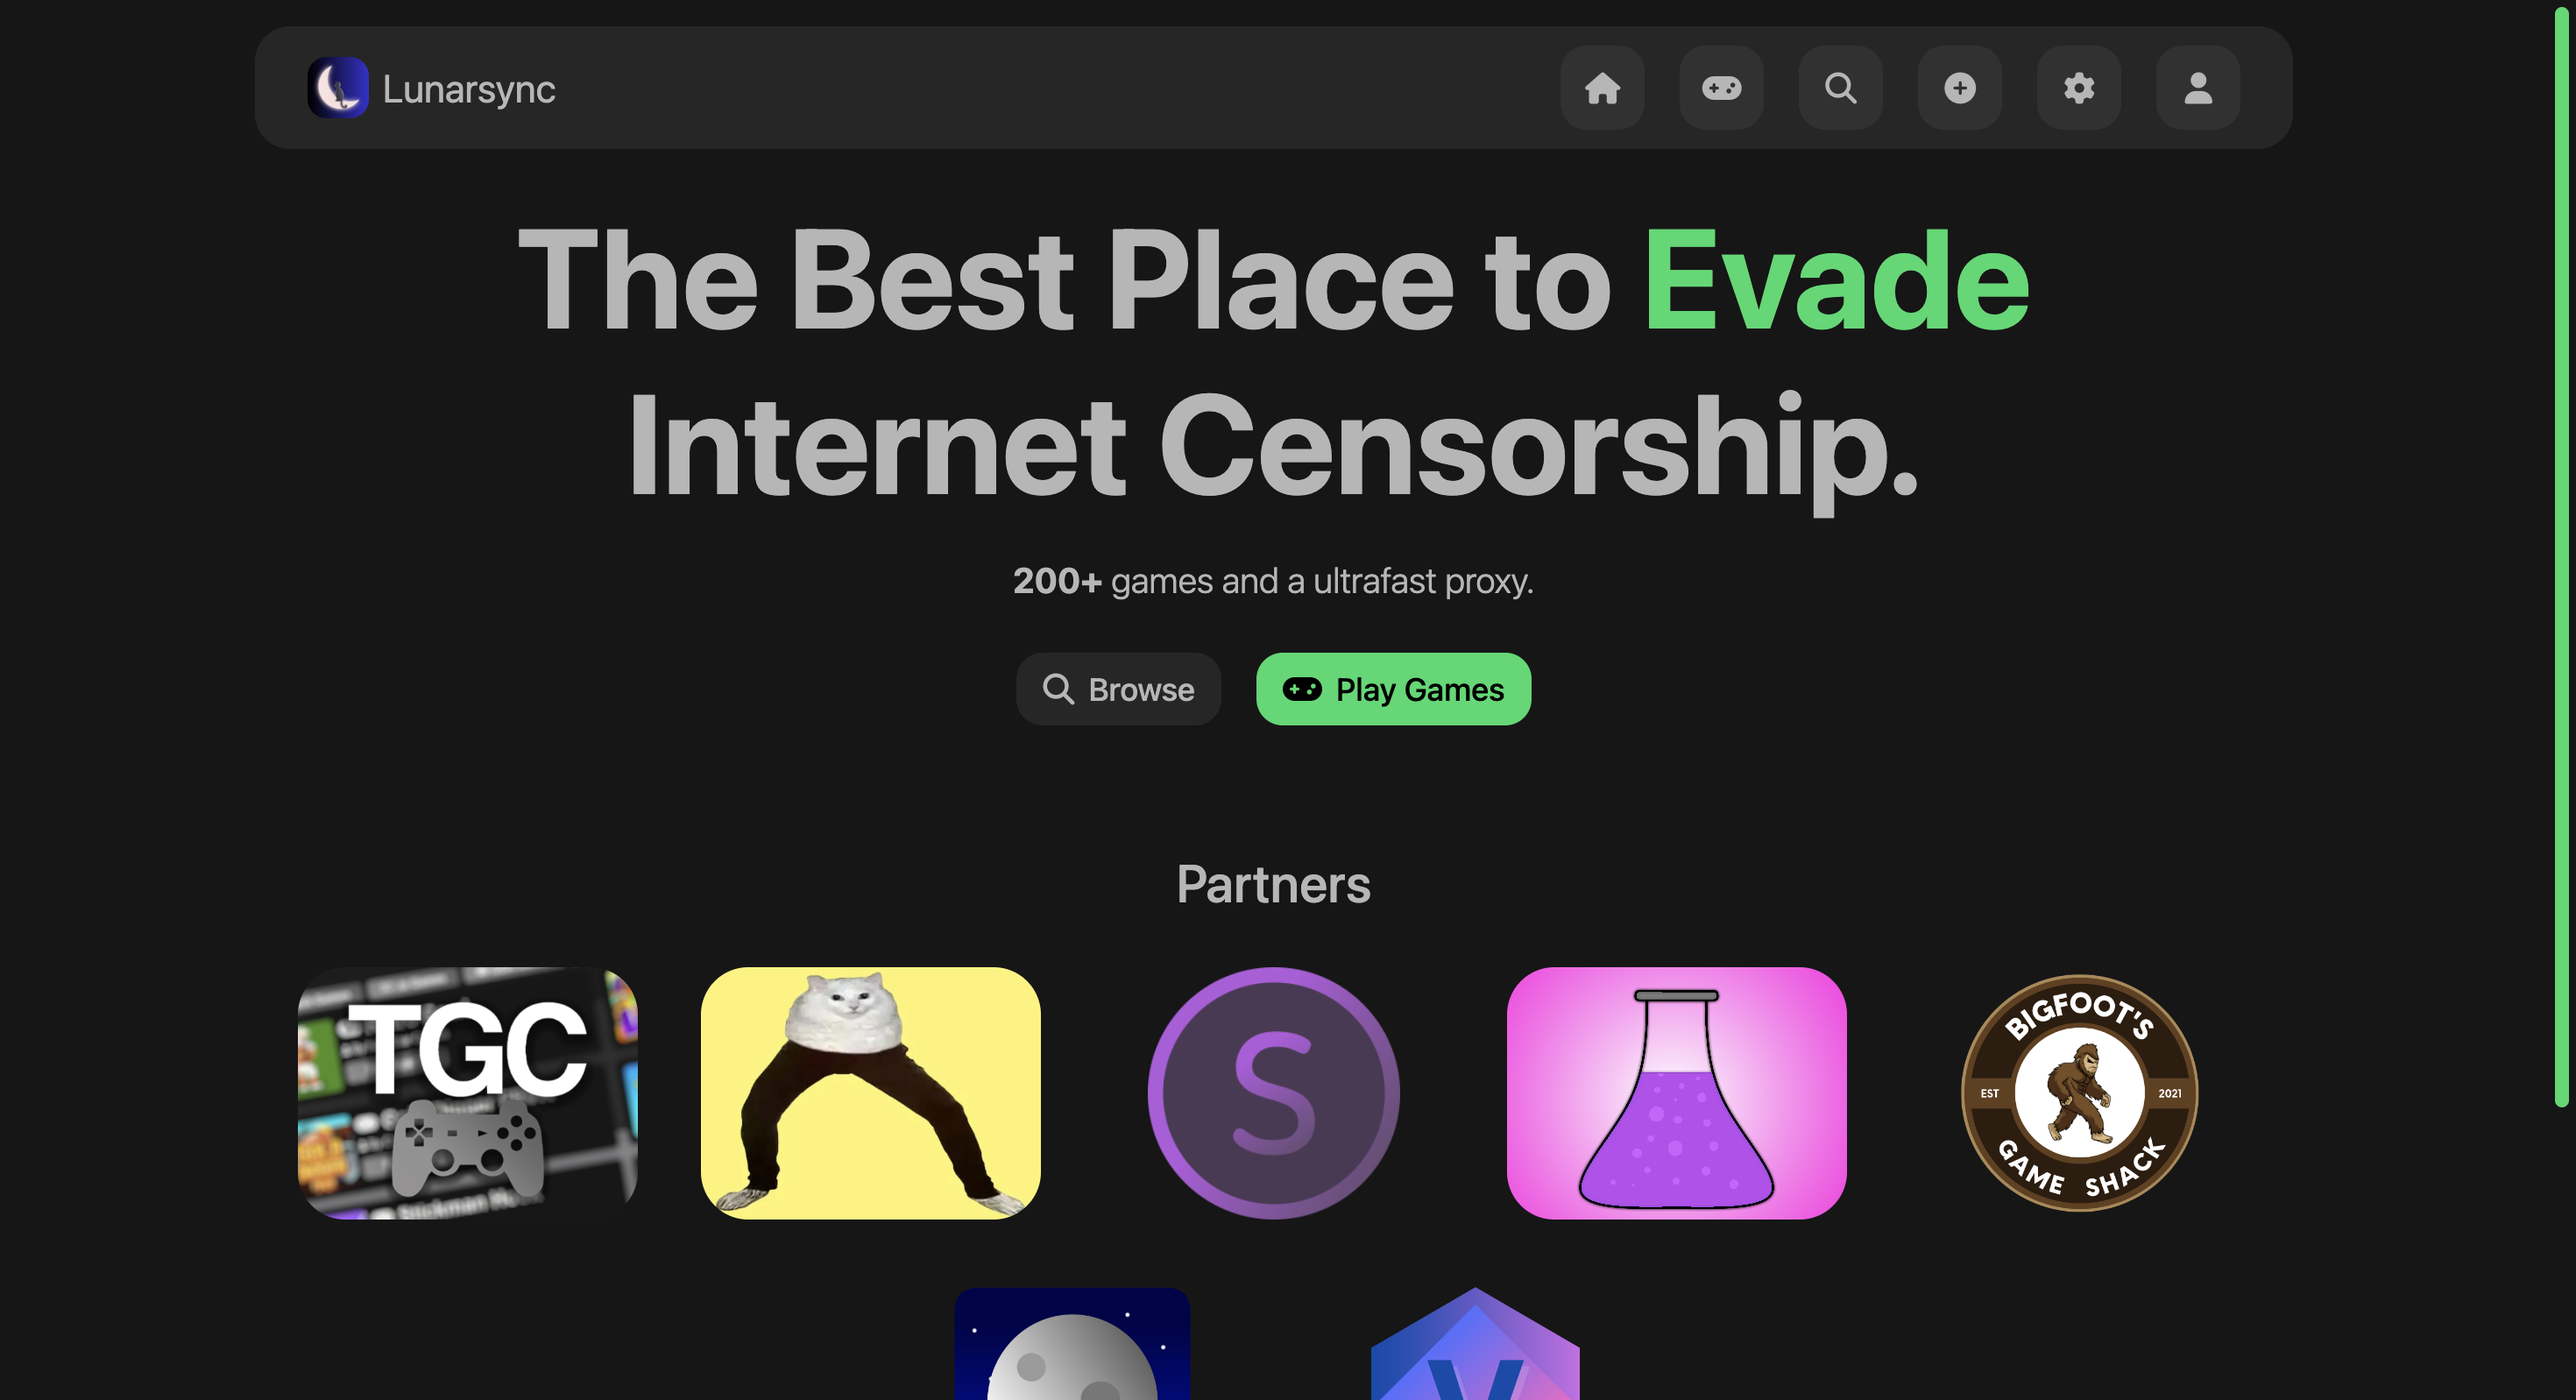
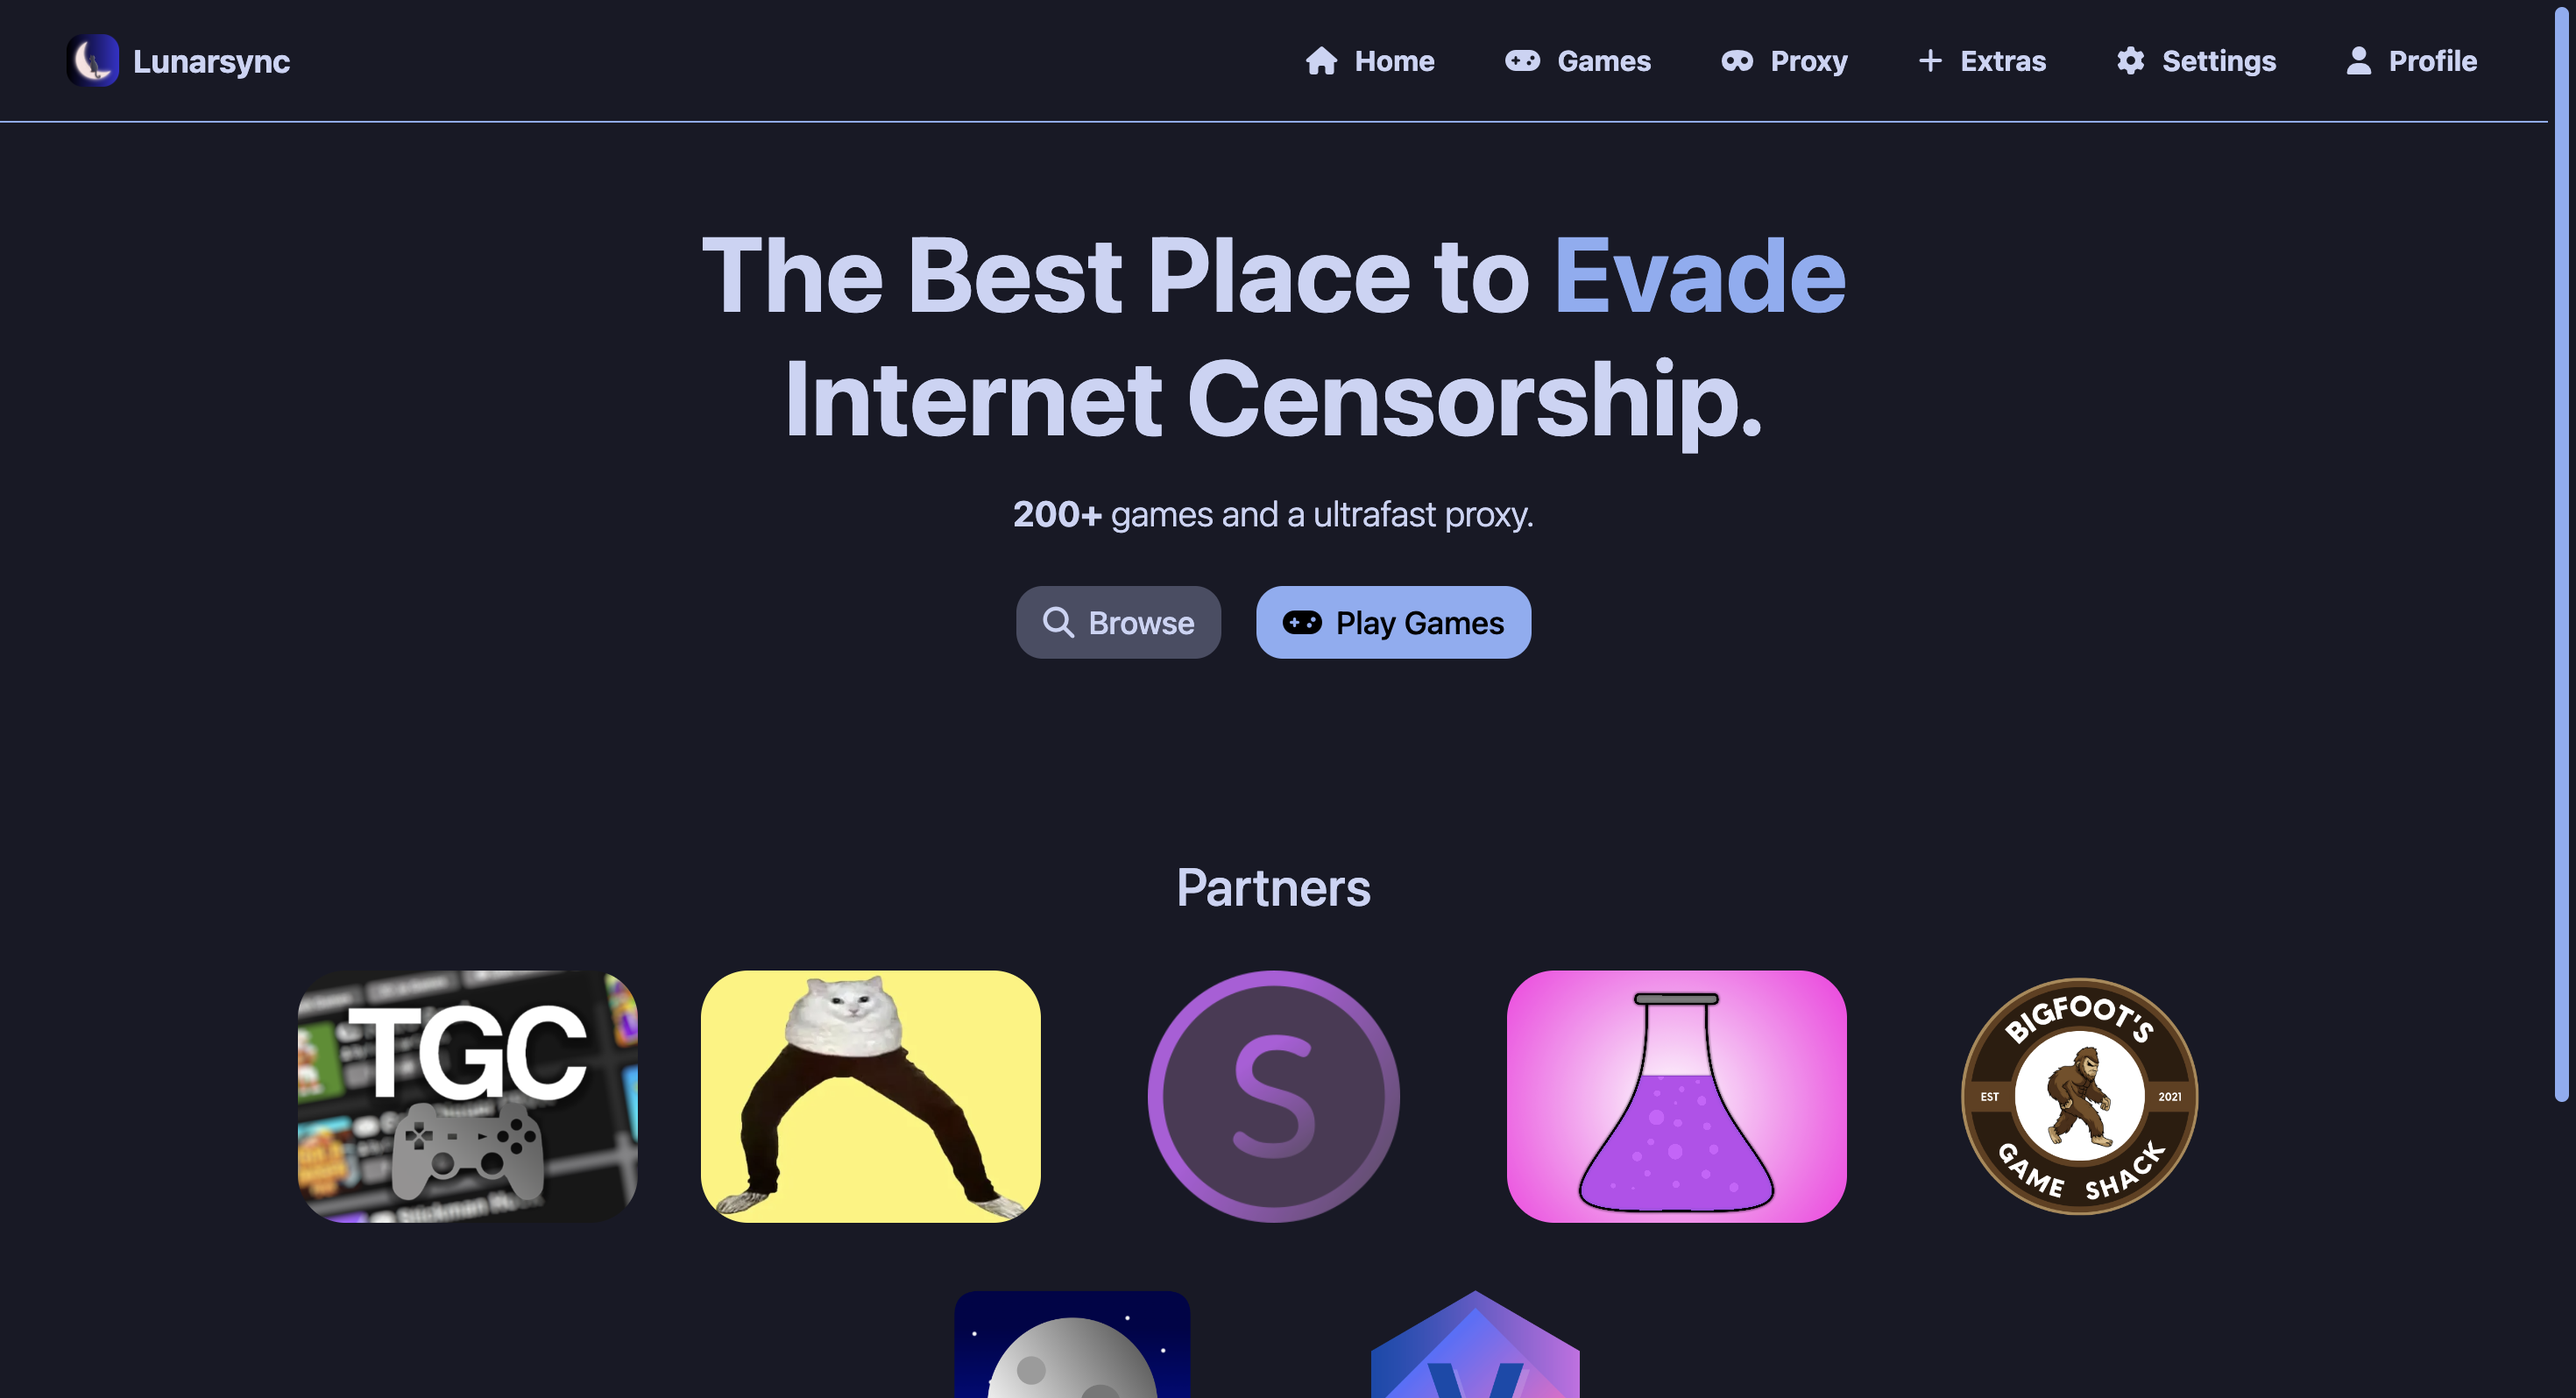
updated projects + ui

diff --git a/css/style.css b/css/style.css
@@ -5,10 +5,10 @@
 }
 
 :root {
-  --background: #1e1e2e;
-  --background2: #313244;
-  --background3: #45475a;
-  --background4: #6c7086;
+  --background: #11111b;
+  --background2: #1e1e2e;
+  --background3: #313244;
+  --background4: #585b70;
   --main-color: #cdd6f4;
   --shadow: rgba(108, 112, 134, 0.5);
   --blue: #89b4fa;
@@ -20,7 +20,7 @@
 body {
   font-family: 'Montserrat';
   font-weight: 300;
-  background: #1e1e2e;
+  background: var(--background);
   background-size: cover;
   background-attachment: fixed;
   color: var(--main-color);
@@ -56,8 +56,8 @@ h2 {
 
 h3 {
   font-size: 25px;
-  margin: 10px 0px;
   font-weight: 600;
+  margin: 0px;
 }
 
 h4 {
@@ -93,10 +93,9 @@ p {
 
 .box {
   border-radius: 20px;
-  background: var(--background3);
+  background: var(--background2);
   padding: 30px;
   margin: 20px 0px;
-  box-shadow: 0px 0px 5px 5px var(--shadow);
 }
 
 .account-logo {
@@ -127,13 +126,17 @@ p {
 }
 
 .project-card {
-  text-align: center;
+  text-align: left;
   color: var(--main-color);
-  background: var(--background4);
+  background: var(--background3);
   width: 100%;
-  transition: 300ms;
+  transition: 200ms;
   border-radius: 23px;
   padding: 15px;
+}
+
+.project-card:hover {
+  transform: scale(0.98);
 }
 
 .project-image {
@@ -205,12 +208,13 @@ p {
 }
 
 select {
-  background: var(--blue);
-  font-family: 'Montserrat';
+  background: var(--background3);
+  font-family: 'Montserrat' !important;
   color: var(--main-color);
   border-radius: 5px;
   padding: 5px;
   outline: none;
+  border: none;
   transition: 300ms;
 }
 
@@ -253,7 +257,7 @@ option {
 
 .skill-bar {
   height: 20px;
-  background-color: var(--background2);
+  background-color: var(--background);
   border-radius: 10px;
   position: relative;
 }
@@ -280,7 +284,7 @@ option {
 
 @media screen and (max-width: 800px) {
   .skill {
-    width: calc(50% - 45px);
+    width: calc(50% - 40px);
   }
 
   h1 {
@@ -299,5 +303,11 @@ option {
 
   .projects {
     flex-wrap: wrap;
+  }
+}
+
+@media screen and (max-width: 600px) {
+  .skill {
+    width: calc(100% - 40px);
   }
 }

diff --git a/index.html b/index.html
@@ -3,8 +3,8 @@
   <head>
     <meta charset="utf-8">
     <meta name="viewport" content="width=device-width">
-    <title>Smxrtfoloo</title>
-    <link rel="icon" type="image/xcon" href="images/favicon.png">
+    <title>smxrtfoloo</title>
+    <link rel="icon" type="image/xcon" href="images/pfp.png">
     <link href="css/style.css" rel="stylesheet" type="text/css" />
     <link href="css/animation.css" rel="stylesheet" type="text/css" />
     <link rel="stylesheet" href="https://cdnjs.cloudflare.com/ajax/libs/font-awesome/6.4.0/css/all.min.css" integrity="sha512-iecdLmaskl7CVkqkXNQ/ZH/XLlvWZOJyj7Yy7tcenmpD1ypASozpmT/E0iPtmFIB46ZmdtAc9eNBvH0H/ZpiBw==" crossorigin="anonymous" referrerpolicy="no-referrer" />
@@ -111,23 +111,23 @@
         <div class="projects hidden">
           <a href="https://lunarsync.smartfoloo.space/" target="_blank">
             <div class="project-card hidden">
-              <img class="project-image" src="/images/lunarsync.png">
               <h3>Lunarsync</h3>
               <h6>An ultrafast, yet simple web proxy to unblock all of your favorites.</h6>
+              <img class="project-image" src="/images/lunarsync.png">
             </div>
           </a>
           <a href="https://solarnova.vercel.app/" target="_blank">
             <div class="project-card hidden">
-              <img class="project-image" src="/images/solarnova.png">
-              <h3>Solarnova</h3>
+              <h3>solarnova</h3>
               <h6>A statically deployable music player built with vanila js.</h6>
+              <img class="project-image" src="/images/solarnova.png">
             </div>
           </a>
           <a href="https://moonlight.silvereen.net/" target="_blank">
             <div class="project-card hidden">
-              <img class="project-image" src="/images/moonlight.png">
               <h3>Moonlight</h3>
               <h6>The cure to boredom at your fingertips.</h6>
+              <img class="project-image" src="/images/moonlight.png">
             </div>
           </a>
         </div>
